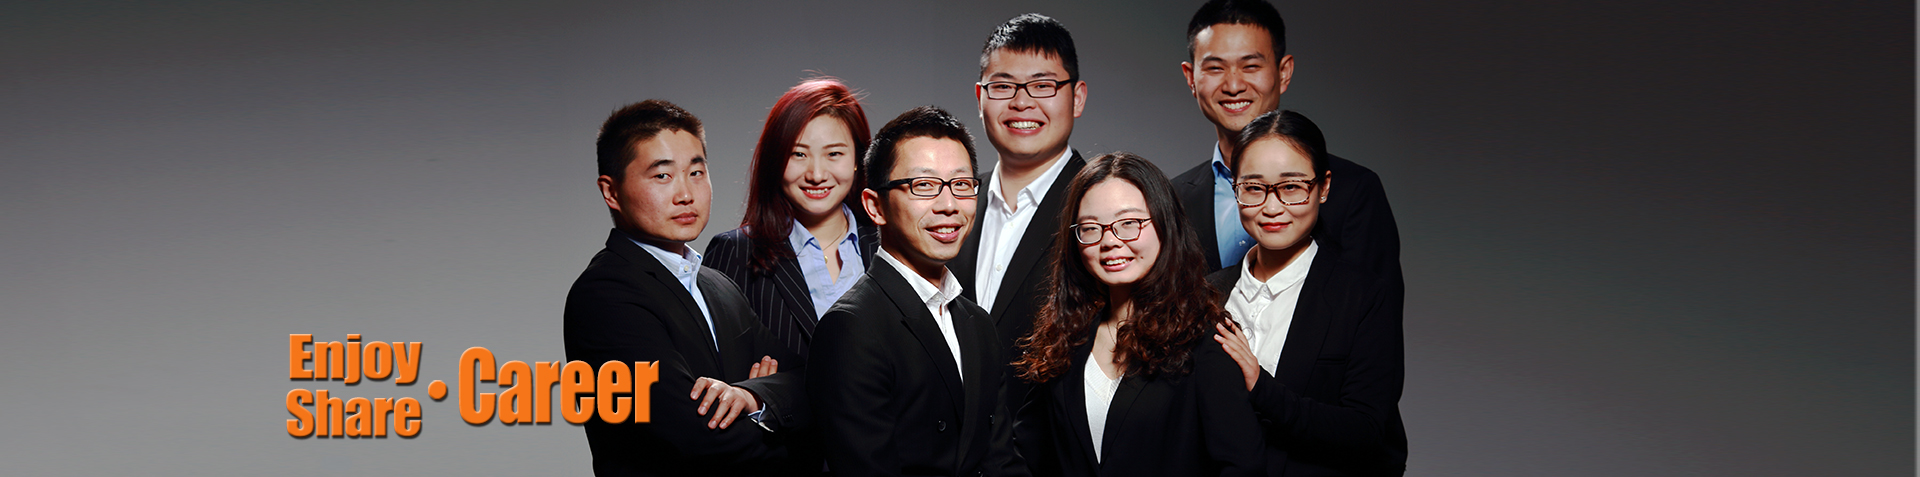
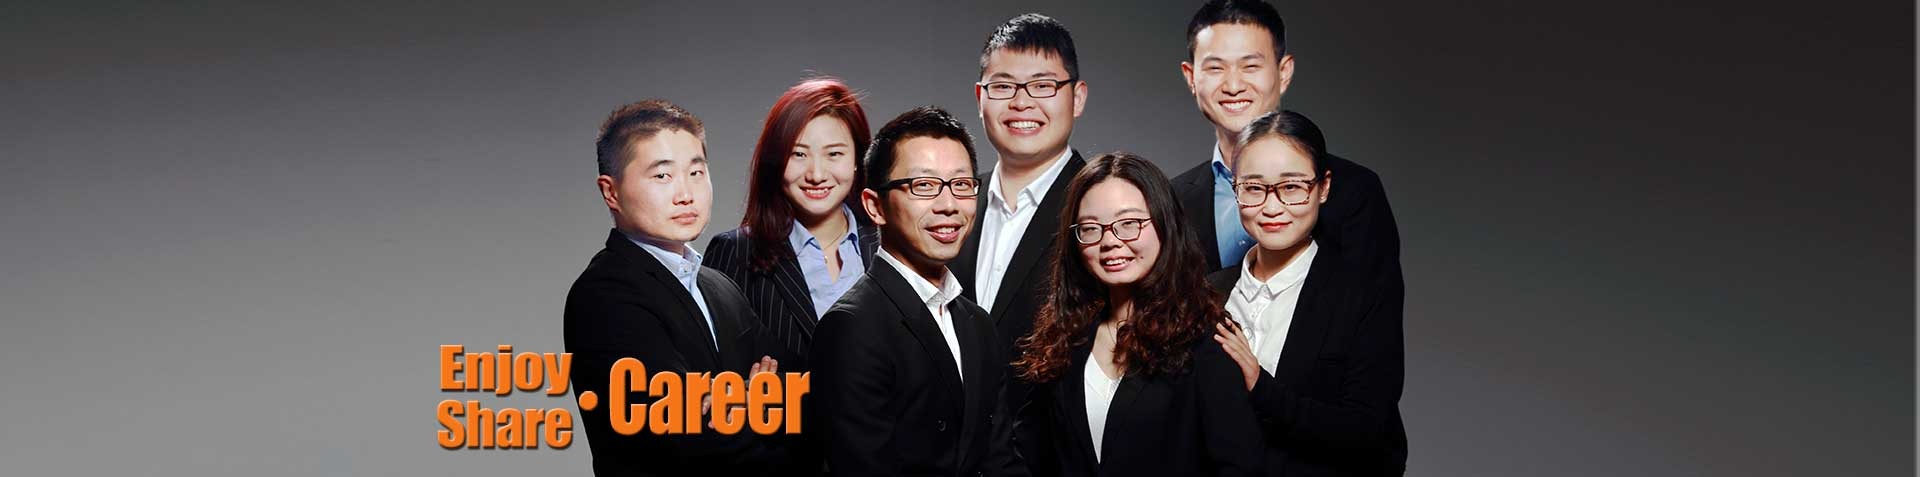
contact

diff --git a/app/assets/stylesheets/p.scss b/app/assets/stylesheets/p.scss
@@ -129,7 +129,7 @@ position:relative;
 			color:$c1;
 			font-size: 25px;
   			position: absolute;
-  			bottom: 0;
+  			bottom: -5px;
    			margin: 0 auto;
   			width: 200px;
   			text-align: center;
@@ -155,10 +155,13 @@ position:relative;
 			color:$c1;
 			font-size: 25px;
   			position: absolute;
-  			bottom: 0;
+  			bottom: -8px;
    			margin: 0 auto;
   			width: 235px;
   			text-align: center;
 		}
+	}
+	.field{
+		margin-bottom: 20px;
 	}
 }

diff --git a/app/assets/stylesheets/contacts.scss b/app/assets/stylesheets/contacts.scss
@@ -1,0 +1,3 @@
+// Place all the styles related to the Contacts controller here.
+// They will automatically be included in application.css.
+// You can use Sass (SCSS) here: http://sass-lang.com/

diff --git a/db/schema.rb b/db/schema.rb
@@ -11,7 +11,7 @@
 #
 # It's strongly recommended that you check this file into your version control system.
 
-ActiveRecord::Schema.define(version: 20150719083436) do
+ActiveRecord::Schema.define(version: 20150728134402) do
 
   # These are extensions that must be enabled in order to support this database
   enable_extension "plpgsql"
@@ -111,6 +111,15 @@ ActiveRecord::Schema.define(version: 20150719083436) do
 
   add_index "companies", ["jobposter_id"], name: "index_companies_on_jobposter_id", using: :btree
 
+  create_table "contacts", force: :cascade do |t|
+    t.string   "name"
+    t.string   "email"
+    t.string   "title"
+    t.text     "content"
+    t.datetime "created_at", null: false
+    t.datetime "updated_at", null: false
+  end
+
   create_table "delayed_jobs", force: :cascade do |t|
     t.integer  "priority",   default: 0, null: false
     t.integer  "attempts",   default: 0, null: false
@@ -178,6 +187,24 @@ ActiveRecord::Schema.define(version: 20150719083436) do
   add_index "jobs", ["company_id"], name: "index_jobs_on_company_id", using: :btree
   add_index "jobs", ["jobposter_id"], name: "index_jobs_on_jobposter_id", using: :btree
 
+  create_table "jobseekers", force: :cascade do |t|
+    t.string   "email",                  default: "", null: false
+    t.string   "encrypted_password",     default: "", null: false
+    t.string   "reset_password_token"
+    t.datetime "reset_password_sent_at"
+    t.datetime "remember_created_at"
+    t.integer  "sign_in_count",          default: 0,  null: false
+    t.datetime "current_sign_in_at"
+    t.datetime "last_sign_in_at"
+    t.inet     "current_sign_in_ip"
+    t.inet     "last_sign_in_ip"
+    t.datetime "created_at",                          null: false
+    t.datetime "updated_at",                          null: false
+  end
+
+  add_index "jobseekers", ["email"], name: "index_jobseekers_on_email", unique: true, using: :btree
+  add_index "jobseekers", ["reset_password_token"], name: "index_jobseekers_on_reset_password_token", unique: true, using: :btree
+
   create_table "resumes", force: :cascade do |t|
     t.string   "path"
     t.integer  "user_id"
@@ -185,6 +212,13 @@ ActiveRecord::Schema.define(version: 20150719083436) do
     t.datetime "updated_at",                 null: false
     t.string   "name"
     t.boolean  "default",    default: false
+  end
+
+  create_table "rusumes", force: :cascade do |t|
+    t.string   "path"
+    t.integer  "user_id"
+    t.datetime "created_at", null: false
+    t.datetime "updated_at", null: false
   end
 
   create_table "users", force: :cascade do |t|

diff --git a/app/controllers/contacts_controller.rb b/app/controllers/contacts_controller.rb
@@ -1,0 +1,78 @@
+class ContactsController < ApplicationController
+  before_action :set_contact, only: [:show, :edit, :update, :destroy]
+
+  # GET /contacts
+  # GET /contacts.json
+  def index
+    @contacts = Contact.all
+    render layout: "admin"
+  end
+
+  # GET /contacts/1
+  # GET /contacts/1.json
+  def show
+    render layout: "admin"
+  end
+
+  # GET /contacts/new
+  def new
+    @contact = Contact.new
+  end
+
+  # GET /contacts/1/edit
+  def edit
+  end
+
+  # POST /contacts
+  # POST /contacts.json
+  def create
+    @contact = Contact.new(contact_params)
+
+    respond_to do |format|
+      if @contact.save
+        format.html { redirect_to @contact, notice: 'Contact was successfully created.' }
+        format.js   {}
+        format.json { render :show, status: :created, location: @contact }
+      else
+        format.js   {}
+        format.html { render :new }
+        format.json { render json: @contact.errors, status: :unprocessable_entity }
+      end
+    end
+  end
+
+  # PATCH/PUT /contacts/1
+  # PATCH/PUT /contacts/1.json
+  def update
+    respond_to do |format|
+      if @contact.update(contact_params)
+        format.html { redirect_to @contact, notice: 'Contact was successfully updated.' }
+        format.json { render :show, status: :ok, location: @contact }
+      else
+        format.html { render :edit }
+        format.json { render json: @contact.errors, status: :unprocessable_entity }
+      end
+    end
+  end
+
+  # DELETE /contacts/1
+  # DELETE /contacts/1.json
+  def destroy
+    @contact.destroy
+    respond_to do |format|
+      format.html { redirect_to contacts_url, notice: 'Contact was successfully destroyed.' }
+      format.json { head :no_content }
+    end
+  end
+
+  private
+    # Use callbacks to share common setup or constraints between actions.
+    def set_contact
+      @contact = Contact.find(params[:id])
+    end
+
+    # Never trust parameters from the scary internet, only allow the white list through.
+    def contact_params
+      params.require(:contact).permit(:name, :email, :title, :content)
+    end
+end

diff --git a/test/controllers/contacts_controller_test.rb b/test/controllers/contacts_controller_test.rb
@@ -1,0 +1,49 @@
+require 'test_helper'
+
+class ContactsControllerTest < ActionController::TestCase
+  setup do
+    @contact = contacts(:one)
+  end
+
+  test "should get index" do
+    get :index
+    assert_response :success
+    assert_not_nil assigns(:contacts)
+  end
+
+  test "should get new" do
+    get :new
+    assert_response :success
+  end
+
+  test "should create contact" do
+    assert_difference('Contact.count') do
+      post :create, contact: { content: @contact.content, email: @contact.email, name: @contact.name, title: @contact.title }
+    end
+
+    assert_redirected_to contact_path(assigns(:contact))
+  end
+
+  test "should show contact" do
+    get :show, id: @contact
+    assert_response :success
+  end
+
+  test "should get edit" do
+    get :edit, id: @contact
+    assert_response :success
+  end
+
+  test "should update contact" do
+    patch :update, id: @contact, contact: { content: @contact.content, email: @contact.email, name: @contact.name, title: @contact.title }
+    assert_redirected_to contact_path(assigns(:contact))
+  end
+
+  test "should destroy contact" do
+    assert_difference('Contact.count', -1) do
+      delete :destroy, id: @contact
+    end
+
+    assert_redirected_to contacts_path
+  end
+end

diff --git a/db/migrate/20150728134402_create_contacts.rb b/db/migrate/20150728134402_create_contacts.rb
@@ -1,0 +1,12 @@
+class CreateContacts < ActiveRecord::Migration
+  def change
+    create_table :contacts do |t|
+      t.string :name
+      t.string :email
+      t.string :title
+      t.text :content
+
+      t.timestamps null: false
+    end
+  end
+end

diff --git a/app/models/contact.rb b/app/models/contact.rb
@@ -1,0 +1,6 @@
+class Contact < ActiveRecord::Base
+  validates :name, presence: true
+  validates :email, presence: true
+  validates :title, presence: true
+  validates :content, presence: true
+end

diff --git a/config/routes.rb b/config/routes.rb
@@ -1,4 +1,5 @@
 Rails.application.routes.draw do
+  resources :contacts
   # You can have the root of your site routed with "root"
    root 'home#index'
 

diff --git a/app/controllers/p_controller.rb b/app/controllers/p_controller.rb
@@ -20,6 +20,7 @@ class PController < ApplicationController
   end
 
   def about
+    @contact = Contact.new
   end
 end
 

diff --git a/app/helpers/contacts_helper.rb b/app/helpers/contacts_helper.rb
@@ -1,0 +1,2 @@
+module ContactsHelper
+end
